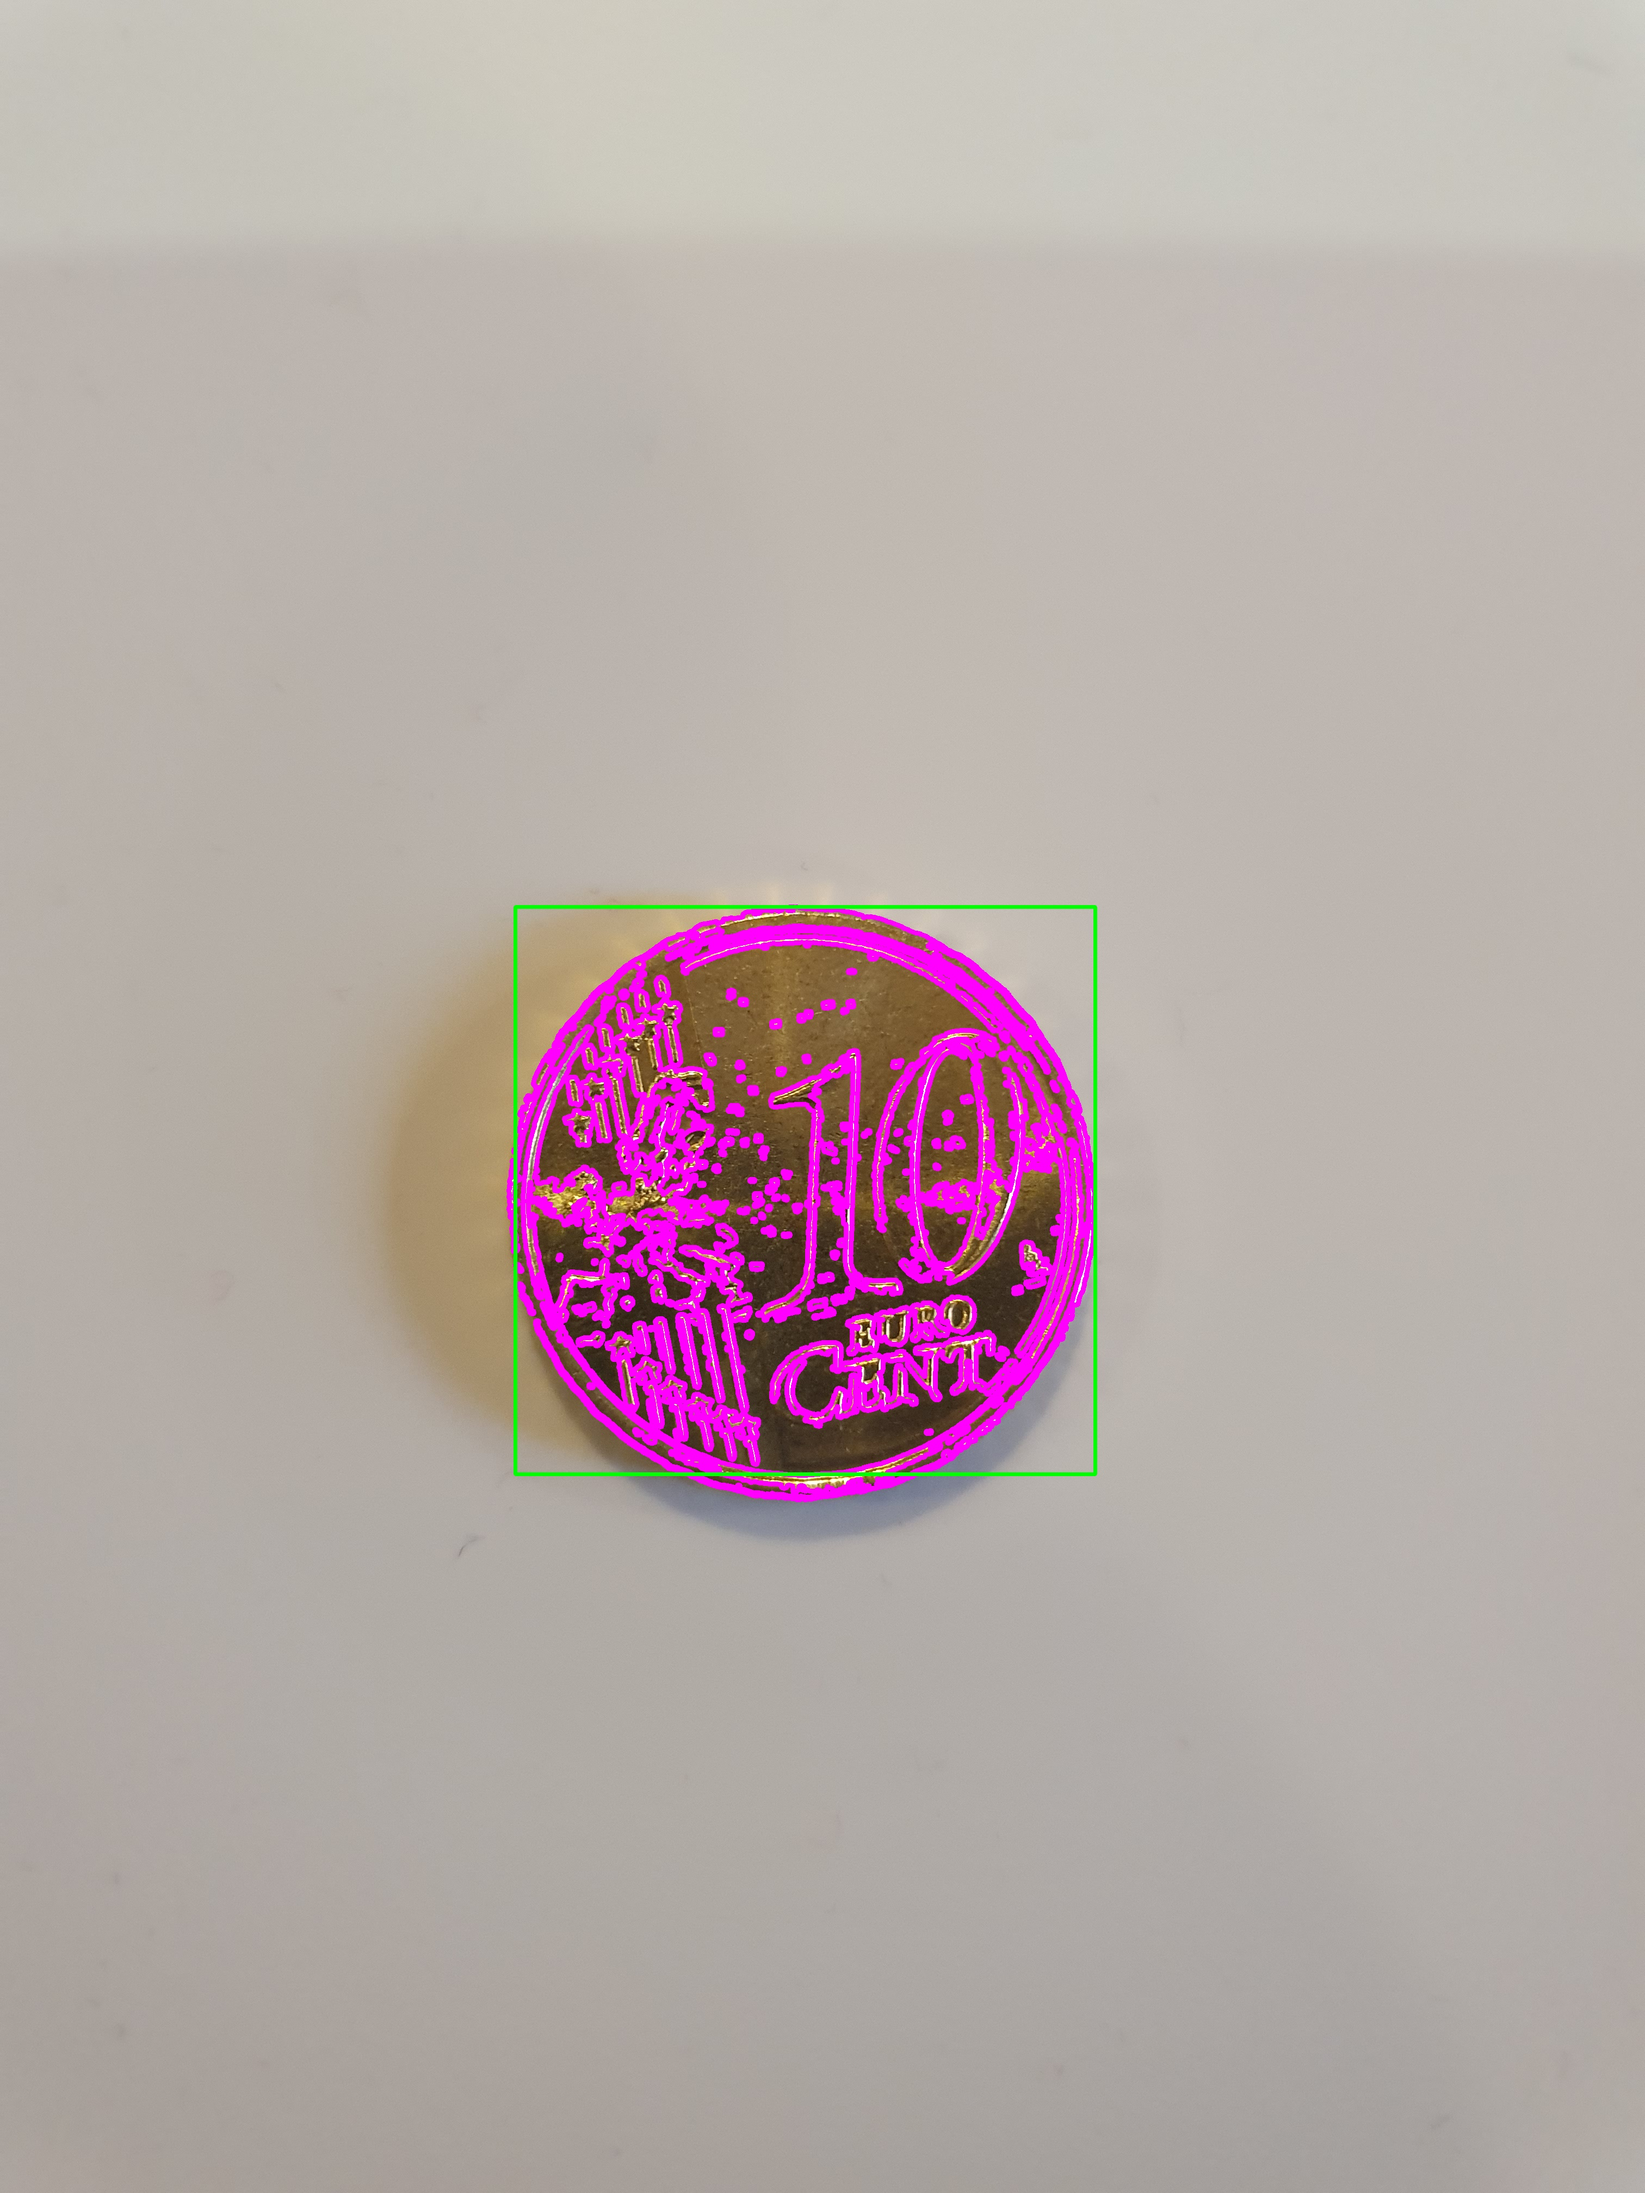
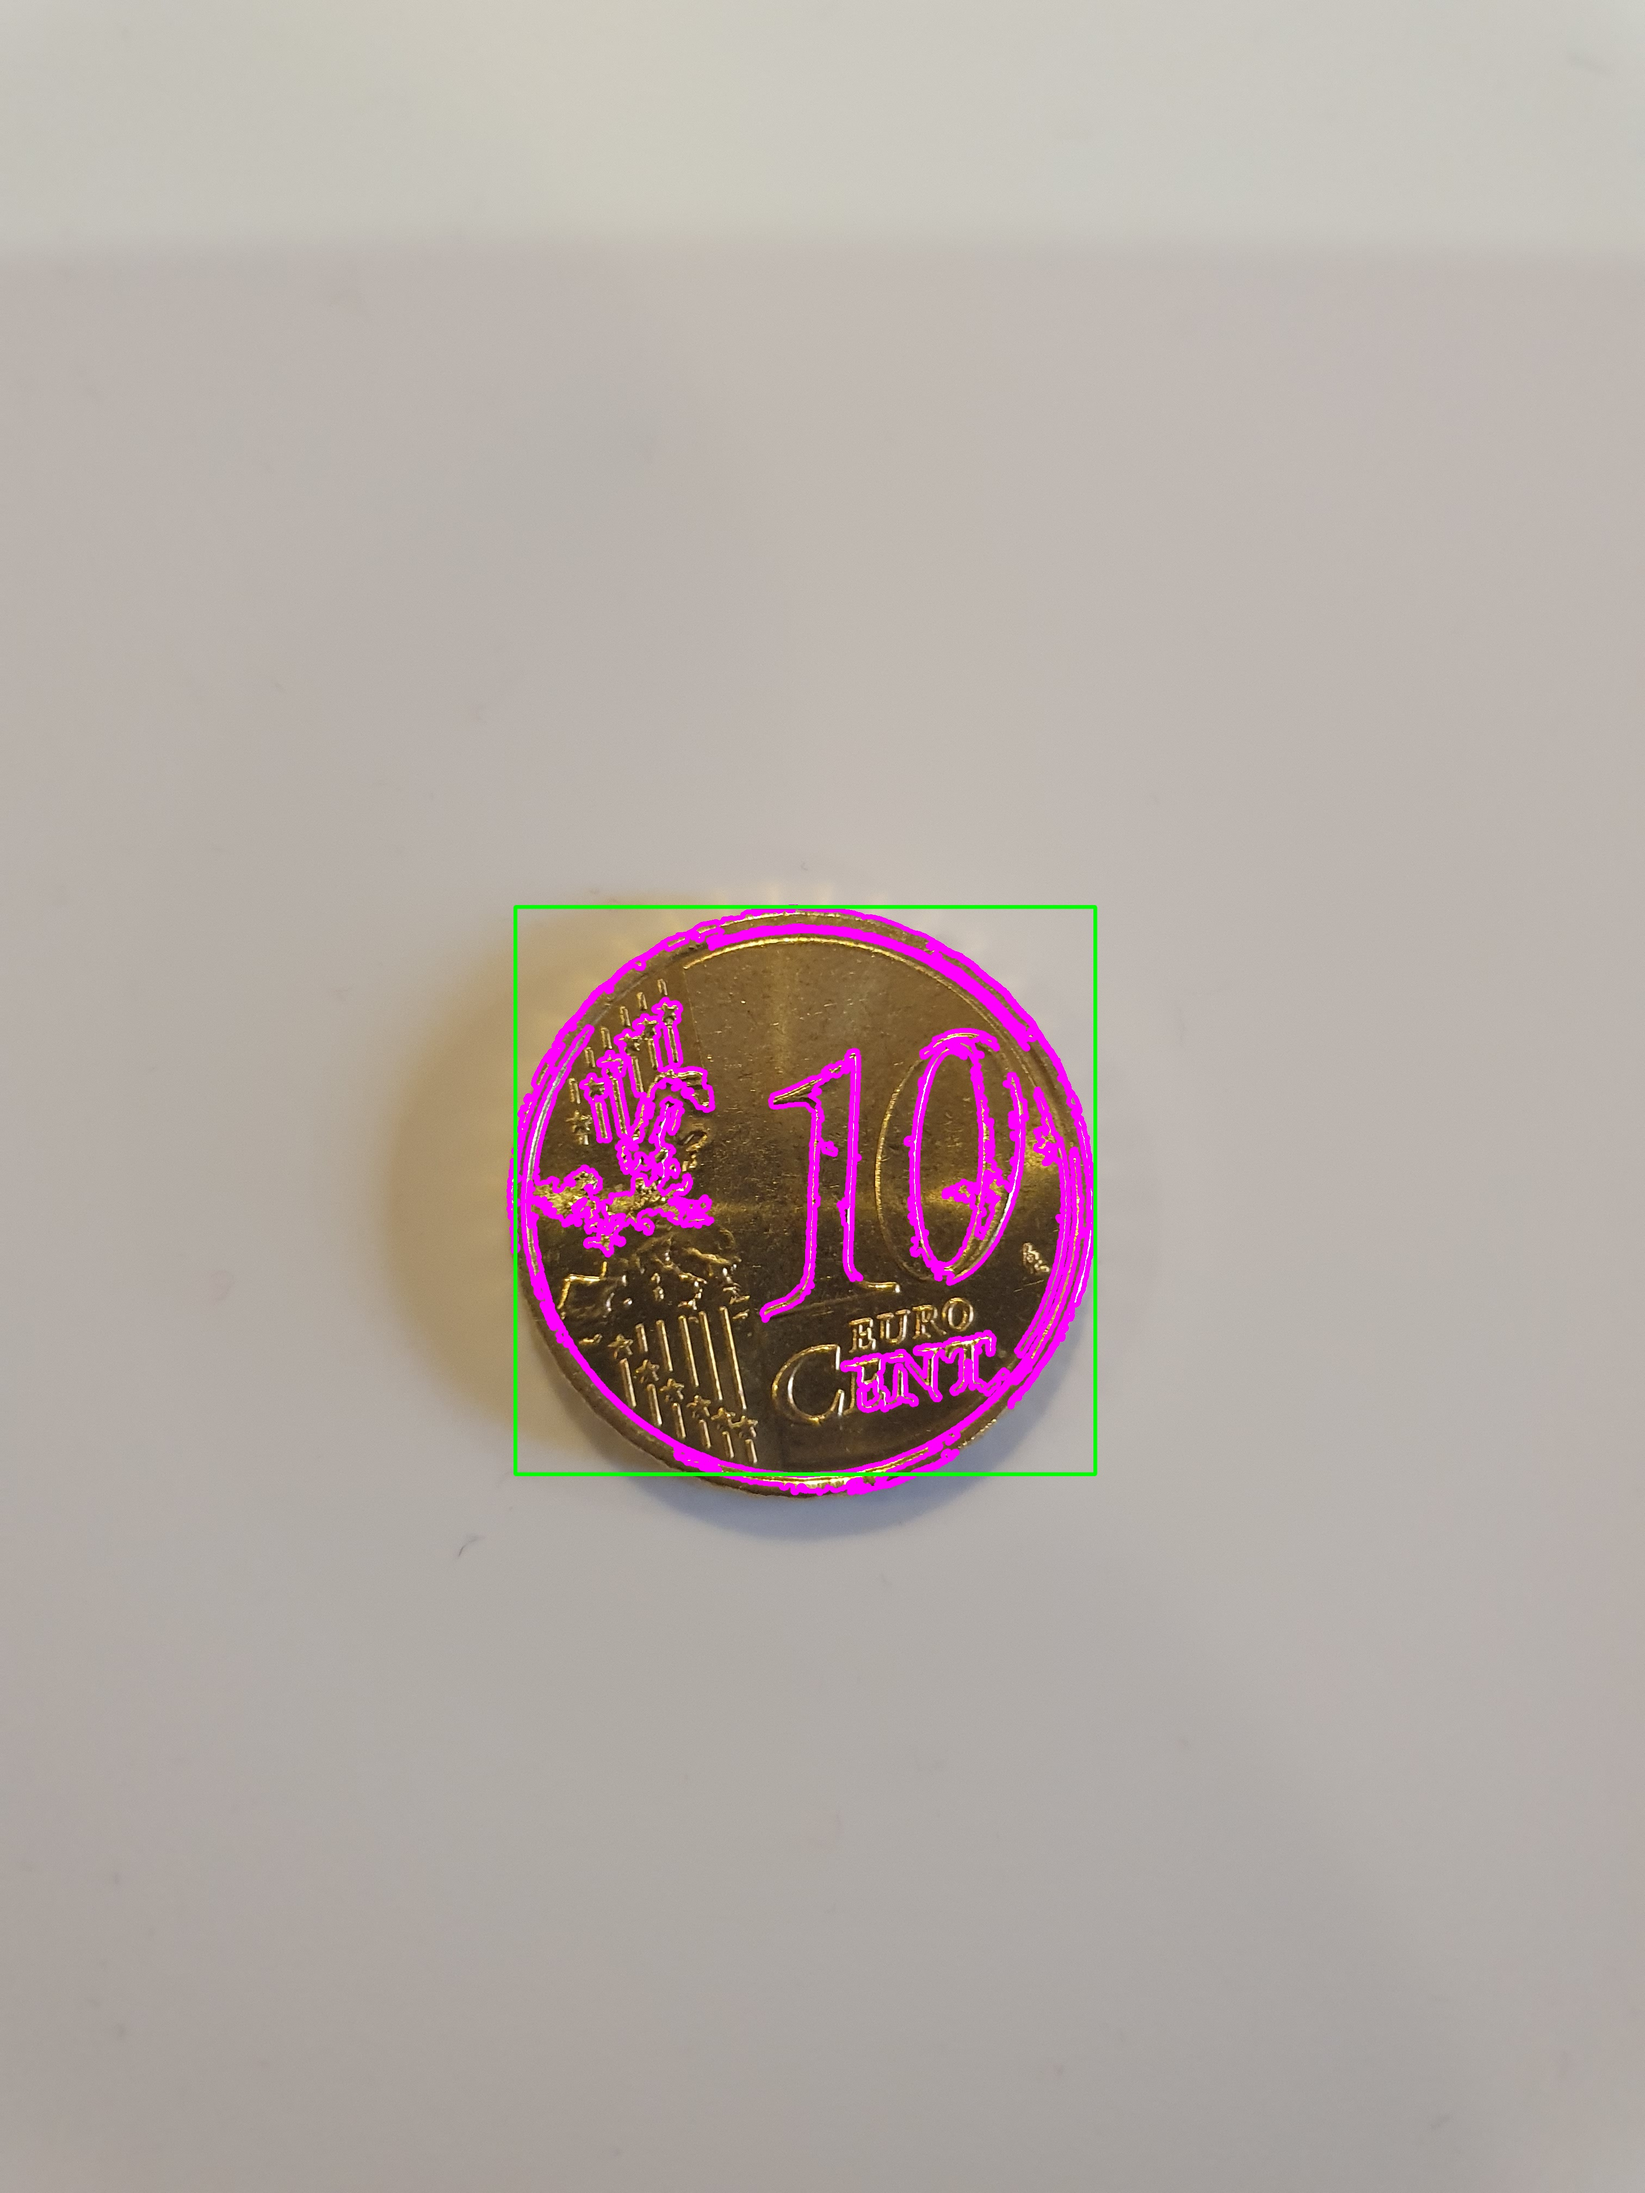
t

Changed region(s): [[0.3108, 0.4688, 0.6528, 0.6875], [0.3419, 0.4062, 0.5595, 0.5312], [0.5595, 0.4375, 0.6528, 0.5312]]

diff --git a/src/first_process/test3.py b/src/first_process/test3.py
@@ -179,7 +179,7 @@ def CombineSquare(square1,square2):
 #Affiche les carrés           
 def getContours(img, imgContour,imgNormal):
     contours, hierarchy = cv2.findContours(img, cv2.RETR_EXTERNAL, cv2.CHAIN_APPROX_NONE)
-    cv2.drawContours(imgContour, contours, -1, (255, 0, 255), 7)
+    #cv2.drawContours(imgContour, contours, -1, (255, 0, 255), 7)
     t = []
     ind = 0
     for cnt in contours:
